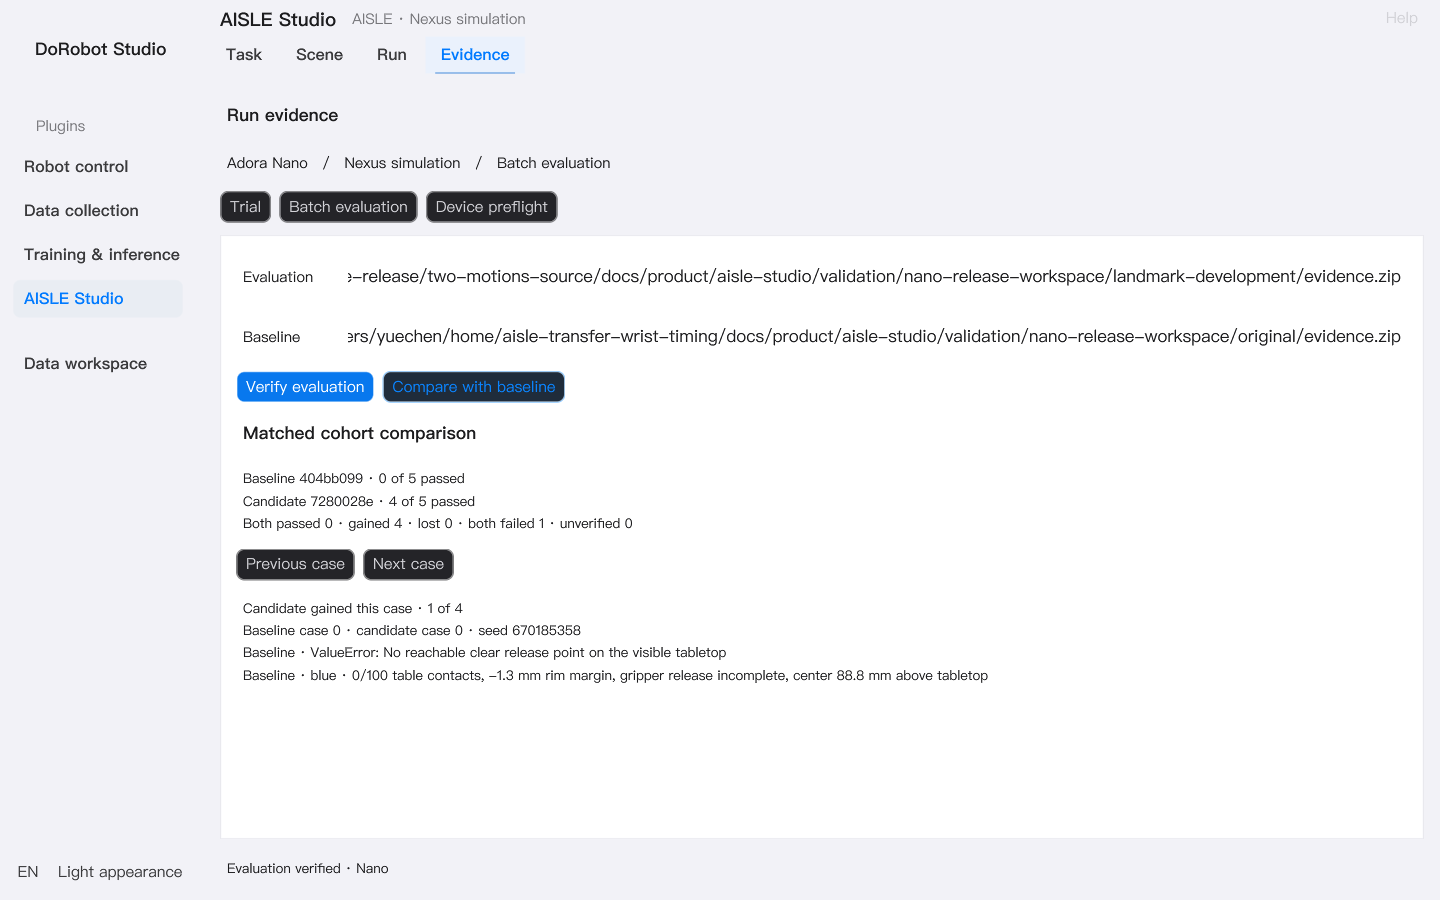
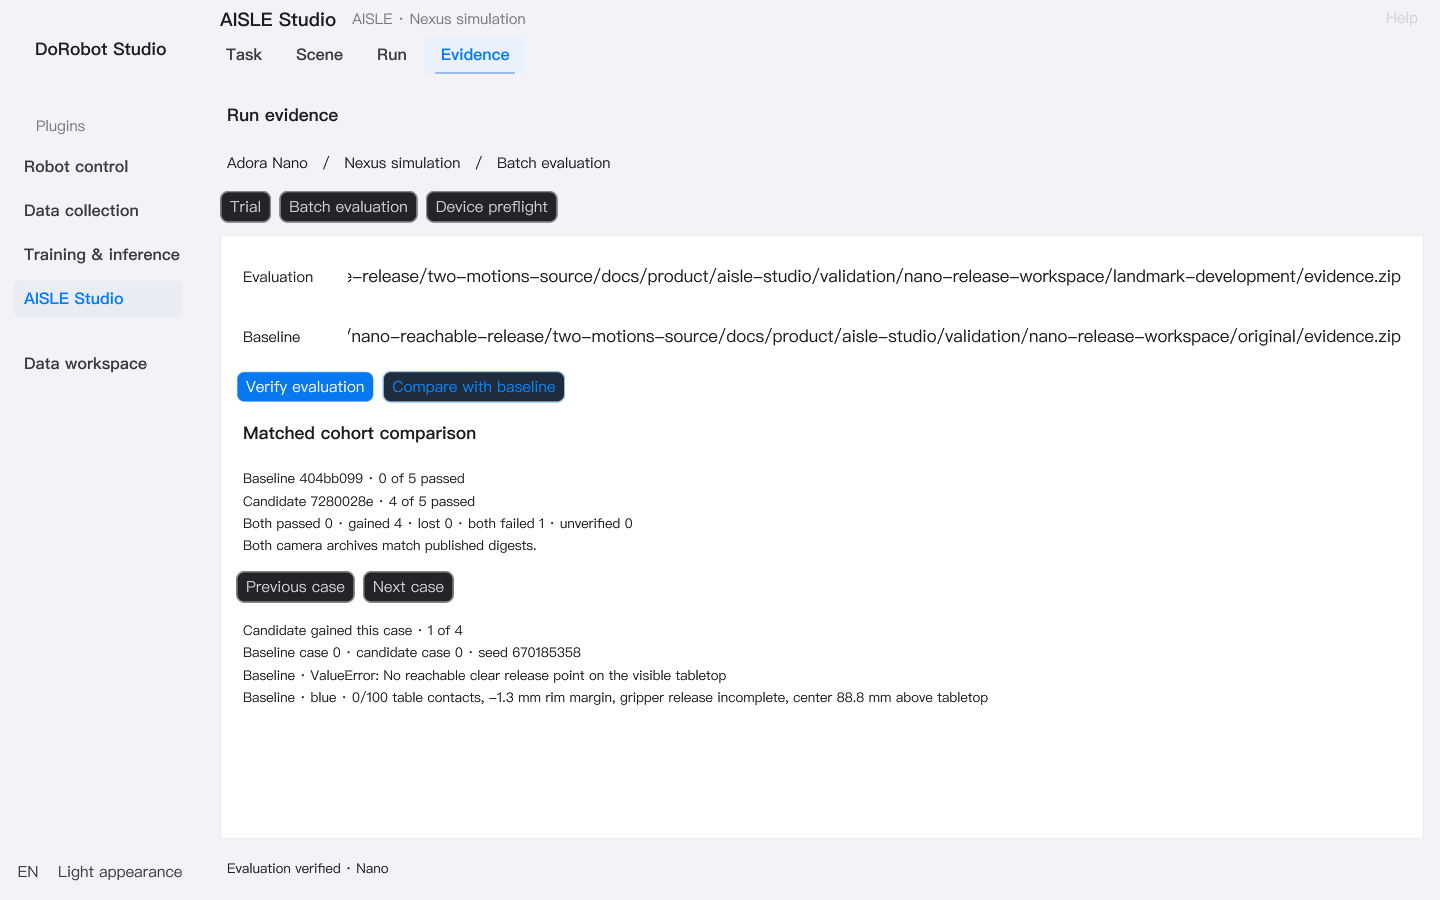
Verify published layout recoveries through Studio after restart

Changed region(s): [[0.1562, 0.5911, 0.6875, 0.7778], [0.25, 0.3422, 0.5, 0.4044]]

diff --git a/docs/product/aisle-studio/validation/nano-release-workspace/README.md b/docs/product/aisle-studio/validation/nano-release-workspace/README.md
@@ -57,6 +57,10 @@ In layout 36, the Nano was holding blue with red and green already on the table.
 | 265.92 s | ![Head after braking](26592-head.png) | ![Left wrist after braking](26592-left_wrist.png) | ![Right wrist after braking](26592-right_wrist.png) |
 
 
+## Choosing the maneuver from the camera images
+
+The controller counts distinct previously placed colors with a clear RGB silhouette when it exhausts the stationary release search. It turns with two visible colors, tries a slow steered sidestep with one, and holds with none. On five disclosed failures it recovered four transfers. The fifth stopped with green held and had lost wheel support for one tick earlier in the episode. All four regression controls retained their original motor journals. The independent 50-layout test for this controller is cohort G. [Maneuver limits, layout outcomes and native comparison](landmark-development/README.md) · [Cohort G protocol](cohort-g/protocol.md)
+
 ## Input commitments and recorded output
 
 Cohort F was registered in commit `e1e8046` before dispatch. The manifest commits the executable inputs, controller and 50 concealed layouts. Independent scoring requires 45 complete transfers, 50 verified motor journals and zero guard bypasses. [Cohort F input manifest](cohort-f/suite.json)
